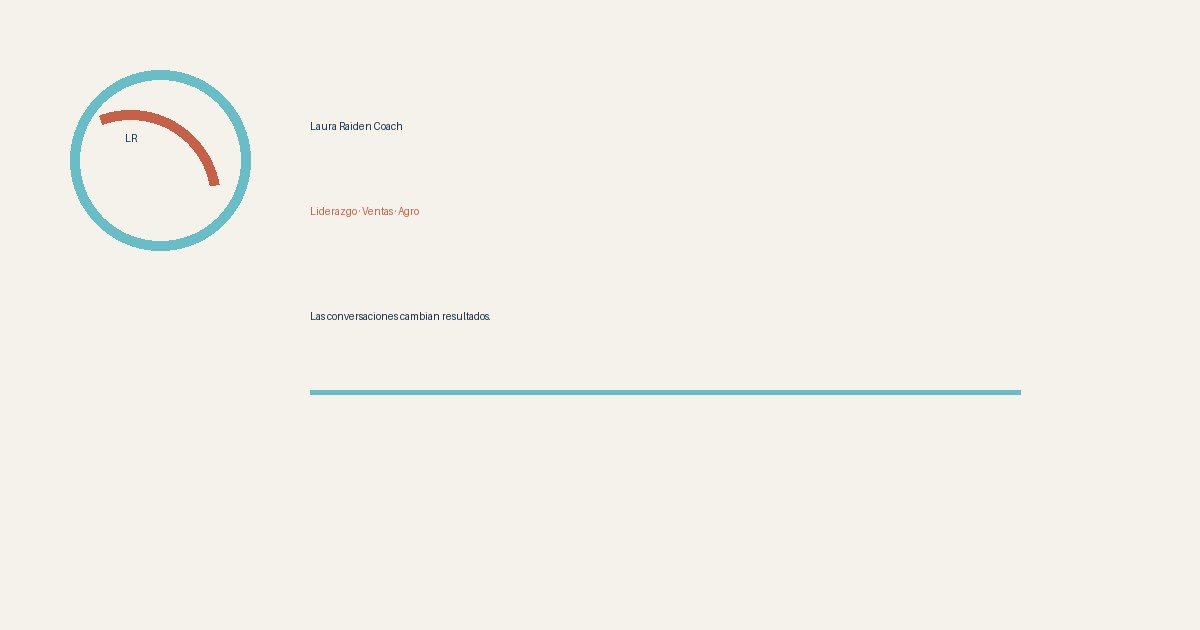
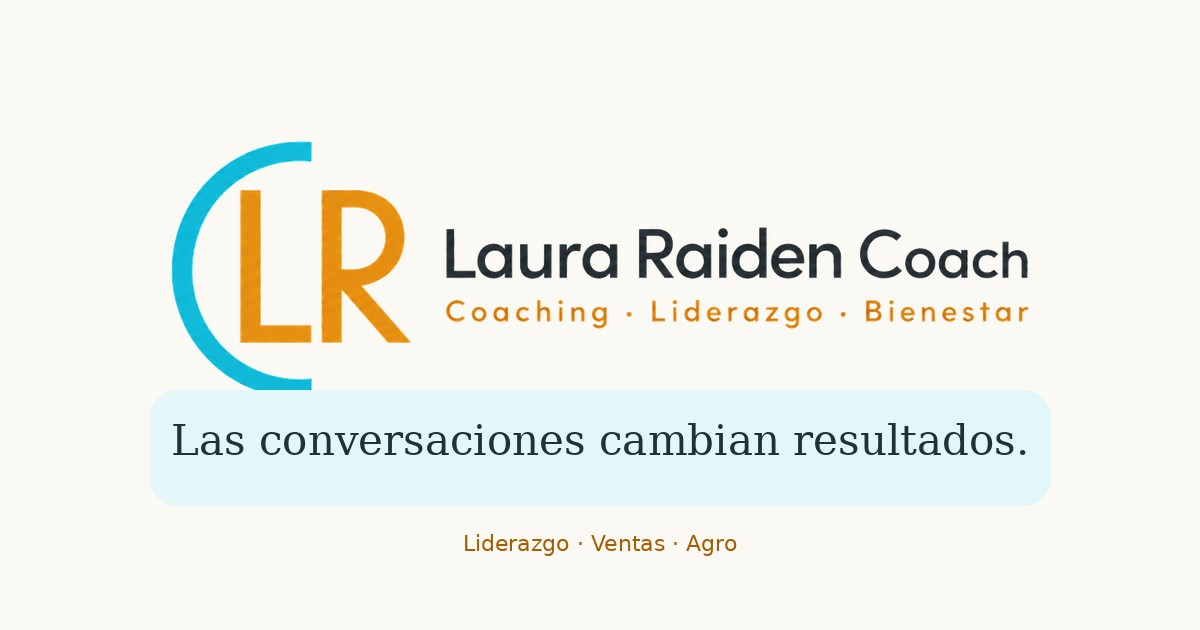
Add files via upload

diff --git a/sobre-laura/index.html b/sobre-laura/index.html
@@ -3,12 +3,12 @@
 <head>
 <meta charset="utf-8">
 <meta name="viewport" content="width=device-width,initial-scale=1">
-<meta name="theme-color" content="#17324a">
+<meta name="theme-color" content="#223039">
 <title>Laura Raiden | Coach, Innovación, Ventas y Liderazgo</title>
 <meta name="description" content="Conocé a Laura Raiden, coach ontológica, diplomada en Gestión de la Cultura de Innovación, capacitadora en ventas y consultora con experiencia en liderazgo y agro.">
 <meta name="robots" content="noindex,nofollow">
 <link rel="canonical" href="https://www.lauraraiden.com/sobre-laura/">
-<link rel="icon" href="../assets/favicon.svg" type="image/svg+xml">
+<link rel="icon" href="../assets/favicon.png" type="image/png">
 <link rel="stylesheet" href="../assets/styles.css">
 <meta property="og:type" content="website">
 <meta property="og:locale" content="es_AR">
@@ -28,8 +28,7 @@
 <header class="site-header">
  <div class="wrap header-row">
   <a class="brand" href="../index.html" aria-label="Laura Raiden Coach - Inicio">
-   <span class="mark"><span>LR</span></span>
-   <span><strong>Laura Raiden Coach</strong><small>Coaching · Liderazgo · Ventas</small></span>
+   <img class="brand-logo" src="../assets/laura-raiden-logo-horizontal.png" width="1515" height="506" alt="Laura Raiden Coach · Coaching, Liderazgo y Bienestar">
   </a>
   <button class="menu-btn" type="button" aria-label="Abrir menú" aria-expanded="false">☰</button>
   <nav class="nav" aria-label="Navegación principal"><a href="../index.html">Inicio</a><a href="../empresas-agro/index.html">Empresas y Agro</a><a href="../ventas/index.html">Ventas</a><a href="../liderazgo/index.html">Liderazgo</a><a href="../experiencias/index.html">Experiencias</a><a href="../sobre-laura/index.html" aria-current="page">Sobre Laura</a><a href="../bienestar/index.html">Bienestar</a><a href="../contacto/index.html">Contacto</a><a class="private-link" href="https://sites.google.com/lauraraiden.com/laura-raiden-privado/inicio" target="_blank" rel="noopener">🔒 Espacio privado</a></nav>

diff --git a/empresas-agro/index.html b/empresas-agro/index.html
@@ -3,12 +3,12 @@
 <head>
 <meta charset="utf-8">
 <meta name="viewport" content="width=device-width,initial-scale=1">
-<meta name="theme-color" content="#17324a">
+<meta name="theme-color" content="#223039">
 <title>Capacitación para Empresas y Equipos del Agro | Laura Raiden</title>
 <meta name="description" content="Capacitación y acompañamiento personalizado para empresas y equipos del agro en liderazgo, ventas, comunicación, autonomía y experiencia del cliente.">
 <meta name="robots" content="noindex,nofollow">
 <link rel="canonical" href="https://www.lauraraiden.com/empresas-agro/">
-<link rel="icon" href="../assets/favicon.svg" type="image/svg+xml">
+<link rel="icon" href="../assets/favicon.png" type="image/png">
 <link rel="stylesheet" href="../assets/styles.css">
 <meta property="og:type" content="website">
 <meta property="og:locale" content="es_AR">
@@ -28,8 +28,7 @@
 <header class="site-header">
  <div class="wrap header-row">
   <a class="brand" href="../index.html" aria-label="Laura Raiden Coach - Inicio">
-   <span class="mark"><span>LR</span></span>
-   <span><strong>Laura Raiden Coach</strong><small>Coaching · Liderazgo · Ventas</small></span>
+   <img class="brand-logo" src="../assets/laura-raiden-logo-horizontal.png" width="1515" height="506" alt="Laura Raiden Coach · Coaching, Liderazgo y Bienestar">
   </a>
   <button class="menu-btn" type="button" aria-label="Abrir menú" aria-expanded="false">☰</button>
   <nav class="nav" aria-label="Navegación principal"><a href="../index.html">Inicio</a><a href="../empresas-agro/index.html" aria-current="page">Empresas y Agro</a><a href="../ventas/index.html">Ventas</a><a href="../liderazgo/index.html">Liderazgo</a><a href="../experiencias/index.html">Experiencias</a><a href="../sobre-laura/index.html">Sobre Laura</a><a href="../bienestar/index.html">Bienestar</a><a href="../contacto/index.html">Contacto</a><a class="private-link" href="https://sites.google.com/lauraraiden.com/laura-raiden-privado/inicio" target="_blank" rel="noopener">🔒 Espacio privado</a></nav>

diff --git a/ventas/index.html b/ventas/index.html
@@ -3,12 +3,12 @@
 <head>
 <meta charset="utf-8">
 <meta name="viewport" content="width=device-width,initial-scale=1">
-<meta name="theme-color" content="#17324a">
+<meta name="theme-color" content="#223039">
 <title>Capacitación en Ventas para el Agro | Laura Raiden Coach</title>
 <meta name="description" content="Entrenamiento comercial para vendedores y equipos del agro: escucha, preguntas, comunicación, negociación, role play y venta consultiva.">
 <meta name="robots" content="noindex,nofollow">
 <link rel="canonical" href="https://www.lauraraiden.com/ventas/">
-<link rel="icon" href="../assets/favicon.svg" type="image/svg+xml">
+<link rel="icon" href="../assets/favicon.png" type="image/png">
 <link rel="stylesheet" href="../assets/styles.css">
 <meta property="og:type" content="website">
 <meta property="og:locale" content="es_AR">
@@ -28,8 +28,7 @@
 <header class="site-header">
  <div class="wrap header-row">
   <a class="brand" href="../index.html" aria-label="Laura Raiden Coach - Inicio">
-   <span class="mark"><span>LR</span></span>
-   <span><strong>Laura Raiden Coach</strong><small>Coaching · Liderazgo · Ventas</small></span>
+   <img class="brand-logo" src="../assets/laura-raiden-logo-horizontal.png" width="1515" height="506" alt="Laura Raiden Coach · Coaching, Liderazgo y Bienestar">
   </a>
   <button class="menu-btn" type="button" aria-label="Abrir menú" aria-expanded="false">☰</button>
   <nav class="nav" aria-label="Navegación principal"><a href="../index.html">Inicio</a><a href="../empresas-agro/index.html">Empresas y Agro</a><a href="../ventas/index.html" aria-current="page">Ventas</a><a href="../liderazgo/index.html">Liderazgo</a><a href="../experiencias/index.html">Experiencias</a><a href="../sobre-laura/index.html">Sobre Laura</a><a href="../bienestar/index.html">Bienestar</a><a href="../contacto/index.html">Contacto</a><a class="private-link" href="https://sites.google.com/lauraraiden.com/laura-raiden-privado/inicio" target="_blank" rel="noopener">🔒 Espacio privado</a></nav>

diff --git a/bienestar/index.html b/bienestar/index.html
@@ -3,12 +3,12 @@
 <head>
 <meta charset="utf-8">
 <meta name="viewport" content="width=device-width,initial-scale=1">
-<meta name="theme-color" content="#17324a">
+<meta name="theme-color" content="#223039">
 <title>Bienestar y Meditación | Laura Raiden Coach</title>
 <meta name="description" content="Prácticas de meditación, atención y bienestar para acompañar la gestión emocional, recuperar presencia y desarrollar mayor claridad.">
 <meta name="robots" content="noindex,nofollow">
 <link rel="canonical" href="https://www.lauraraiden.com/bienestar/">
-<link rel="icon" href="../assets/favicon.svg" type="image/svg+xml">
+<link rel="icon" href="../assets/favicon.png" type="image/png">
 <link rel="stylesheet" href="../assets/styles.css">
 <meta property="og:type" content="website">
 <meta property="og:locale" content="es_AR">
@@ -28,8 +28,7 @@
 <header class="site-header">
  <div class="wrap header-row">
   <a class="brand" href="../index.html" aria-label="Laura Raiden Coach - Inicio">
-   <span class="mark"><span>LR</span></span>
-   <span><strong>Laura Raiden Coach</strong><small>Coaching · Liderazgo · Ventas</small></span>
+   <img class="brand-logo" src="../assets/laura-raiden-logo-horizontal.png" width="1515" height="506" alt="Laura Raiden Coach · Coaching, Liderazgo y Bienestar">
   </a>
   <button class="menu-btn" type="button" aria-label="Abrir menú" aria-expanded="false">☰</button>
   <nav class="nav" aria-label="Navegación principal"><a href="../index.html">Inicio</a><a href="../empresas-agro/index.html">Empresas y Agro</a><a href="../ventas/index.html">Ventas</a><a href="../liderazgo/index.html">Liderazgo</a><a href="../experiencias/index.html">Experiencias</a><a href="../sobre-laura/index.html">Sobre Laura</a><a href="../bienestar/index.html" aria-current="page">Bienestar</a><a href="../contacto/index.html">Contacto</a><a class="private-link" href="https://sites.google.com/lauraraiden.com/laura-raiden-privado/inicio" target="_blank" rel="noopener">🔒 Espacio privado</a></nav>

diff --git a/contacto/index.html b/contacto/index.html
@@ -3,12 +3,12 @@
 <head>
 <meta charset="utf-8">
 <meta name="viewport" content="width=device-width,initial-scale=1">
-<meta name="theme-color" content="#17324a">
+<meta name="theme-color" content="#223039">
 <title>Contacto | Laura Raiden Coach</title>
 <meta name="description" content="Contactá a Laura Raiden para consultas sobre coaching, liderazgo, capacitación en ventas, empresas, agro, bienestar y meditación.">
 <meta name="robots" content="noindex,nofollow">
 <link rel="canonical" href="https://www.lauraraiden.com/contacto/">
-<link rel="icon" href="../assets/favicon.svg" type="image/svg+xml">
+<link rel="icon" href="../assets/favicon.png" type="image/png">
 <link rel="stylesheet" href="../assets/styles.css">
 <meta property="og:type" content="website">
 <meta property="og:locale" content="es_AR">
@@ -28,8 +28,7 @@
 <header class="site-header">
  <div class="wrap header-row">
   <a class="brand" href="../index.html" aria-label="Laura Raiden Coach - Inicio">
-   <span class="mark"><span>LR</span></span>
-   <span><strong>Laura Raiden Coach</strong><small>Coaching · Liderazgo · Ventas</small></span>
+   <img class="brand-logo" src="../assets/laura-raiden-logo-horizontal.png" width="1515" height="506" alt="Laura Raiden Coach · Coaching, Liderazgo y Bienestar">
   </a>
   <button class="menu-btn" type="button" aria-label="Abrir menú" aria-expanded="false">☰</button>
   <nav class="nav" aria-label="Navegación principal"><a href="../index.html">Inicio</a><a href="../empresas-agro/index.html">Empresas y Agro</a><a href="../ventas/index.html">Ventas</a><a href="../liderazgo/index.html">Liderazgo</a><a href="../experiencias/index.html">Experiencias</a><a href="../sobre-laura/index.html">Sobre Laura</a><a href="../bienestar/index.html">Bienestar</a><a href="../contacto/index.html" aria-current="page">Contacto</a><a class="private-link" href="https://sites.google.com/lauraraiden.com/laura-raiden-privado/inicio" target="_blank" rel="noopener">🔒 Espacio privado</a></nav>

diff --git a/index.html b/index.html
@@ -3,12 +3,12 @@
 <head>
 <meta charset="utf-8">
 <meta name="viewport" content="width=device-width,initial-scale=1">
-<meta name="theme-color" content="#17324a">
+<meta name="theme-color" content="#223039">
 <title>Laura Raiden Coach | Liderazgo, Ventas y Agro</title>
 <meta name="description" content="Coaching y capacitación en liderazgo, ventas, comunicación y desarrollo de equipos, con especial experiencia en empresas y profesionales del agro.">
 <meta name="robots" content="noindex,nofollow">
 <link rel="canonical" href="https://www.lauraraiden.com/">
-<link rel="icon" href="assets/favicon.svg" type="image/svg+xml">
+<link rel="icon" href="assets/favicon.png" type="image/png">
 <link rel="stylesheet" href="assets/styles.css">
 <meta property="og:type" content="website">
 <meta property="og:locale" content="es_AR">
@@ -28,8 +28,7 @@
 <header class="site-header">
  <div class="wrap header-row">
   <a class="brand" href="index.html" aria-label="Laura Raiden Coach - Inicio">
-   <span class="mark"><span>LR</span></span>
-   <span><strong>Laura Raiden Coach</strong><small>Coaching · Liderazgo · Ventas</small></span>
+   <img class="brand-logo" src="assets/laura-raiden-logo-horizontal.png" width="1515" height="506" alt="Laura Raiden Coach · Coaching, Liderazgo y Bienestar">
   </a>
   <button class="menu-btn" type="button" aria-label="Abrir menú" aria-expanded="false">☰</button>
   <nav class="nav" aria-label="Navegación principal"><a href="index.html" aria-current="page">Inicio</a><a href="empresas-agro/index.html">Empresas y Agro</a><a href="ventas/index.html">Ventas</a><a href="liderazgo/index.html">Liderazgo</a><a href="experiencias/index.html">Experiencias</a><a href="sobre-laura/index.html">Sobre Laura</a><a href="bienestar/index.html">Bienestar</a><a href="contacto/index.html">Contacto</a><a class="private-link" href="https://sites.google.com/lauraraiden.com/laura-raiden-privado/inicio" target="_blank" rel="noopener">🔒 Espacio privado</a></nav>

diff --git a/liderazgo/index.html b/liderazgo/index.html
@@ -3,12 +3,12 @@
 <head>
 <meta charset="utf-8">
 <meta name="viewport" content="width=device-width,initial-scale=1">
-<meta name="theme-color" content="#17324a">
+<meta name="theme-color" content="#223039">
 <title>Coaching para Gerentes y Líderes | Laura Raiden</title>
 <meta name="description" content="Coaching individual para gerentes, empresarios y responsables de equipos que necesitan delegar, poner límites y liderar sin cargarse todo.">
 <meta name="robots" content="noindex,nofollow">
 <link rel="canonical" href="https://www.lauraraiden.com/liderazgo/">
-<link rel="icon" href="../assets/favicon.svg" type="image/svg+xml">
+<link rel="icon" href="../assets/favicon.png" type="image/png">
 <link rel="stylesheet" href="../assets/styles.css">
 <meta property="og:type" content="website">
 <meta property="og:locale" content="es_AR">
@@ -28,8 +28,7 @@
 <header class="site-header">
  <div class="wrap header-row">
   <a class="brand" href="../index.html" aria-label="Laura Raiden Coach - Inicio">
-   <span class="mark"><span>LR</span></span>
-   <span><strong>Laura Raiden Coach</strong><small>Coaching · Liderazgo · Ventas</small></span>
+   <img class="brand-logo" src="../assets/laura-raiden-logo-horizontal.png" width="1515" height="506" alt="Laura Raiden Coach · Coaching, Liderazgo y Bienestar">
   </a>
   <button class="menu-btn" type="button" aria-label="Abrir menú" aria-expanded="false">☰</button>
   <nav class="nav" aria-label="Navegación principal"><a href="../index.html">Inicio</a><a href="../empresas-agro/index.html">Empresas y Agro</a><a href="../ventas/index.html">Ventas</a><a href="../liderazgo/index.html" aria-current="page">Liderazgo</a><a href="../sobre-laura/index.html">Sobre Laura</a><a href="../bienestar/index.html">Bienestar</a><a href="../contacto/index.html">Contacto</a><a class="private-link" href="https://sites.google.com/lauraraiden.com/laura-raiden-privado/inicio" target="_blank" rel="noopener">🔒 Espacio privado</a></nav>

diff --git a/404.html b/404.html
@@ -3,12 +3,12 @@
 <head>
 <meta charset="utf-8">
 <meta name="viewport" content="width=device-width,initial-scale=1">
-<meta name="theme-color" content="#17324a">
+<meta name="theme-color" content="#223039">
 <title>Página no encontrada | Laura Raiden Coach</title>
 <meta name="description" content="La página solicitada no está disponible.">
 <meta name="robots" content="noindex,nofollow">
 <link rel="canonical" href="https://www.lauraraiden.com/404.html">
-<link rel="icon" href="assets/favicon.svg" type="image/svg+xml">
+<link rel="icon" href="assets/favicon.png" type="image/png">
 <link rel="stylesheet" href="assets/styles.css">
 <meta property="og:type" content="website">
 <meta property="og:locale" content="es_AR">
@@ -28,8 +28,7 @@
 <header class="site-header">
  <div class="wrap header-row">
   <a class="brand" href="index.html" aria-label="Laura Raiden Coach - Inicio">
-   <span class="mark"><span>LR</span></span>
-   <span><strong>Laura Raiden Coach</strong><small>Coaching · Liderazgo · Ventas</small></span>
+   <img class="brand-logo" src="assets/laura-raiden-logo-horizontal.png" width="1515" height="506" alt="Laura Raiden Coach · Coaching, Liderazgo y Bienestar">
   </a>
   <button class="menu-btn" type="button" aria-label="Abrir menú" aria-expanded="false">☰</button>
   <nav class="nav" aria-label="Navegación principal"><a href="index.html">Inicio</a><a href="empresas-agro/index.html">Empresas y Agro</a><a href="ventas/index.html">Ventas</a><a href="liderazgo/index.html">Liderazgo</a><a href="experiencias/index.html">Experiencias</a><a href="sobre-laura/index.html">Sobre Laura</a><a href="bienestar/index.html">Bienestar</a><a href="contacto/index.html">Contacto</a><a class="private-link" href="https://sites.google.com/lauraraiden.com/laura-raiden-privado/inicio" target="_blank" rel="noopener">🔒 Espacio privado</a></nav>

diff --git a/assets/styles.css b/assets/styles.css
@@ -77,7 +77,7 @@ h3{font-size:25px;line-height:1.12;margin:0 0 10px}
  .cards,.proof-grid{grid-template-columns:1fr}.service-grid{grid-template-columns:repeat(2,1fr)}.process{grid-template-columns:1fr 1fr}.footer-grid{grid-template-columns:1fr 1fr}
 }
 @media(max-width:620px){
- .wrap{width:min(100% - 26px,var(--max))}.header-row{height:74px}.brand{min-width:auto}.brand small{display:none}.brand strong{font-size:16px}.mark{width:42px;height:42px}
+ .wrap{width:min(100% - 26px,var(--max))}.header-row{height:74px}.brand{min-width:auto}.brand-logo{width:205px;max-height:66px}
  .hero{padding:48px 0 38px}.section{padding:64px 0}.section.tight{padding:48px 0}
  h1{font-size:47px}.lead{font-size:18px}.actions{flex-direction:column}.btn{width:100%}
  .hero-note{position:static;margin-top:12px;max-width:none}
@@ -114,3 +114,10 @@ h3{font-size:25px;line-height:1.12;margin:0 0 10px}
 .result-point span{font-size:13px;color:#d8e4e6}
 @media(max-width:900px){.result-points{grid-template-columns:1fr 1fr}}
 @media(max-width:620px){.result-points{grid-template-columns:1fr}.manager-result{padding:22px}.manager-result blockquote{font-size:20px}}
+
+.brand{display:flex;align-items:center;min-width:260px}.brand-logo{display:block;width:260px;height:auto;max-height:76px;object-fit:contain;object-position:left center}
+
+@media(max-width:620px){
+ .brand{min-width:auto}
+ .brand-logo{width:205px;max-height:66px}
+}

diff --git a/experiencias/index.html b/experiencias/index.html
@@ -1,11 +1,11 @@
 <!doctype html><html lang="es-AR"><head>
 <meta charset="utf-8"><meta name="viewport" content="width=device-width,initial-scale=1">
-<meta name="theme-color" content="#17324a">
+<meta name="theme-color" content="#223039">
 <title>Experiencias de Trabajo | Laura Raiden Coach</title>
 <meta name="description" content="Experiencias reales de capacitación, ventas, liderazgo y equipos acompañadas por Laura Raiden Coach, con casos y testimonios autorizados.">
 <meta name="robots" content="noindex,nofollow">
 <link rel="canonical" href="https://www.lauraraiden.com/experiencias/">
-<link rel="icon" href="../assets/favicon.svg" type="image/svg+xml">
+<link rel="icon" href="../assets/favicon.png" type="image/png">
 <link rel="stylesheet" href="../assets/styles.css">
 <meta property="og:type" content="website"><meta property="og:locale" content="es_AR">
 <meta property="og:site_name" content="Laura Raiden Coach">
